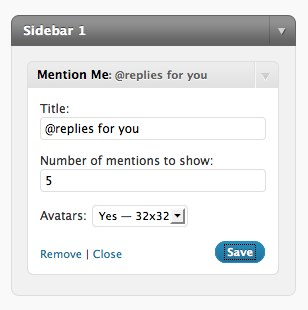
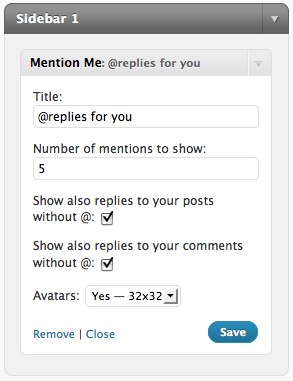
added possibility to have also non-@replies appear in the widget
git-svn-id: https://plugins.svn.wordpress.org/mention-me/trunk@168568 b8457f37-d9ea-0310-8a92-e5e31aec5664

Changed region(s): [[0.0, 0.0, 1.0, 0.9581], [0.0922, 0.4935, 0.8908, 0.929], [0.8601, 0.4065, 0.8908, 0.4645]]

diff --git a/mention-me.php b/mention-me.php
@@ -17,7 +17,6 @@ class Mention_Me extends WP_Widget {
 		
 		$this->default_num_to_show = 3;
 		$this->default_avatar_size = 32;
-		
 	}
 	
 	function flush_widget_cache() {
@@ -39,6 +38,12 @@ class Mention_Me extends WP_Widget {
 		$num_to_show = esc_attr( $instance['num_to_show'] );
 		$num_to_show_id = $this->get_field_id('num_to_show');
 		$num_to_show_name = $this->get_field_name('num_to_show');
+		$show_also_post_followups = esc_attr( $instance['show_also_post_followups'] );
+		$show_also_post_followups_id = $this->get_field_id('show_also_post_followups');
+		$show_also_post_followups_name = $this->get_field_name('show_also_post_followups');
+		$show_also_comment_followups = esc_attr( $instance['show_also_comment_followups'] );
+		$show_also_comment_followups_id = $this->get_field_id('show_also_comment_followups');
+		$show_also_comment_followups_name = $this->get_field_name('show_also_comment_followups');
 		$avatar_size = esc_attr( $instance['avatar_size'] );
 		$avatar_size_id = $this->get_field_id('avatar_size');
 		$avatar_size_name = $this->get_field_name('avatar_size');
@@ -48,19 +53,31 @@ class Mention_Me extends WP_Widget {
 		);
 ?>
 	<p>
-		<label for="<?php echo $title_id ?>"><?php _e('Title:', 'p2') ?> 
+		<label for="<?php echo $title_id ?>"><?php _e('Title:', 'mentionme') ?> 
 			<input type="text" class="widefat" id="<?php echo $title_id ?>" name="<?php echo $title_name ?>"
 				value="<?php echo $title; ?>" />
 		</label>
 	</p>
 	<p>
-		<label for="<?php echo $num_to_show_id ?>"><?php _e('Number of mentions to show:', 'p2') ?> 
+		<label for="<?php echo $num_to_show_id ?>"><?php _e('Number of mentions to show:', 'mentionme') ?> 
 			<input type="text" class="widefat" id="<?php echo $num_to_show_id ?>" name="<?php echo $num_to_show_name ?>"
 				value="<?php echo $num_to_show; ?>" />
 		</label>
 	</p>
 	<p>
-		<label for="<?php echo $avatar_size_id ?>"><?php _e('Avatars:', 'p2') ?> 
+		<label for="<?php echo $show_also_post_followups_id ?>"><?php _e('Show also replies to your posts without @:', 'mentionme') ?> 
+			<input type="checkbox" value=1 id="<?php echo $show_also_post_followups_id ?>" name="<?php echo $show_also_post_followups_name ?>"
+				<?php if( $show_also_post_followups ): echo 'checked="checked"'; endif; ?> />
+		</label>
+	</p>
+	<p>
+		<label for="<?php echo $show_also_comment_followups_id ?>"><?php _e('Show also replies to your comments without @:', 'mentionme') ?> 
+			<input type="checkbox" value=1 id="<?php echo $show_also_comment_followups_id ?>" name="<?php echo $show_also_comment_followups_name ?>"
+				<?php if( $show_also_comment_followups ): echo 'checked="checked"'; endif; ?> />
+		</label>
+	</p>
+	<p>
+		<label for="<?php echo $avatar_size_id ?>"><?php _e('Avatars:', 'mentionme') ?> 
 			<select name="<?php echo $avatar_size_name ?>" id="<?php echo $avatar_size_id ?>">
 			<?php foreach($sizes as $value => $label): ?>
 				<option value="<?php echo $value ?>" <?php selected($value, $avatar_size); ?>><?php echo $label; ?></option>
@@ -75,6 +92,8 @@ class Mention_Me extends WP_Widget {
 	function update( $new_instance, $old_instance ) {
 		$new_instance['num_to_show'] = (int)$new_instance['num_to_show']? (int)$new_instance['num_to_show'] : $this->default_num_to_show;
 		$new_instance['avatar_size'] = (int)$new_instance['avatar_size']? (int)$new_instance['avatar_size'] : $this->default_avatar_size;
+		$new_instance['show_also_post_followups'] = $new_instance['show_also_post_followups'] ? true : false;
+		$new_instance['show_also_comment_followups'] = $new_instance['show_also_comment_followups'] ? true : false;
 		return $new_instance;
 	}
 	
@@ -87,11 +106,13 @@ class Mention_Me extends WP_Widget {
 		
 		$title = (isset( $instance['title'] ) && $instance['title'])? $instance['title'] : __('Recent mentions', 'p2');
 		$num_to_show = (isset( $instance['num_to_show'] ) && (int)$instance['num_to_show'])? (int)$instance['num_to_show'] : $this->default_num_to_show;
+		$show_also_comment_followups = ( isset( $instance['show_also_comment_followups'] ) && $instance['show_also_comment_followups'] ) ? true : false;
+		$show_also_post_followups = ( isset( $instance['show_also_post_followups'] ) && $instance['show_also_post_followups'] ) ? true : false;
 		$avatar_size = (isset( $instance['avatar_size'] ) && (int)$instance['avatar_size'])? (int)$instance['avatar_size'] : $this->default_avatar_size;
 		
 		$no_avatar = $avatar_size == '-1';
 		
-		$mentions = $this->recent_mentions( $num_to_show );
+		$mentions = $this->recent_mentions( $num_to_show, $show_also_post_followups, $show_also_comment_followups );
 		
 		echo $before_widget . $before_title . wp_specialchars( $title ) . $after_title;
 ?>
@@ -164,7 +185,7 @@ class Mention_Me extends WP_Widget {
 		return $name_map;
 	}
 	
-	function recent_mentions( $num_to_show ) {
+	function recent_mentions( $num_to_show, $show_also_post_followups=false, $show_also_comment_followups=false ) {
 		global $wpdb, $current_user;
 
 		//$cache = wp_cache_get( 'p2_recent_mentions_' . $current_user->ID, 'widget' );
@@ -183,6 +204,18 @@ class Mention_Me extends WP_Widget {
 				$post_mapping[] = "post_content LIKE '%$map%'";
 			}
 		}
+		
+		if ( $show_also_comment_followups ) {
+			$comment_replies = (array) $wpdb->get_results("SELECT comment_id as ID, comment_post_id as post_id, user_id as user_id, comment_author as author, comment_author_url as author_url, comment_author_email as author_email, comment_content as content, comment_date_gmt as gmt_date FROM $wpdb->comments WHERE comment_approved = '1' AND comment_parent IN ( SELECT comment_id FROM $wpdb->comments WHERE comment_approved = '1' AND user_id = {$current_user->ID} ) ORDER BY comment_date_gmt DESC");
+		} else {
+			$comment_replies = array();
+		}
+		if ( $show_also_post_followups ) {
+			$post_replies = (array) $wpdb->get_results("SELECT comment_id as ID, comment_post_id as post_id, user_id as user_id, comment_author as author, comment_author_url as author_url, comment_author_email as author_email, comment_content as content, comment_date_gmt as gmt_date FROM $wpdb->comments WHERE  comment_approved = '1' AND comment_parent = 0 AND comment_post_id IN ( SELECT ID FROM $wpdb->posts WHERE post_status = 'publish' AND post_author = {$current_user->ID} ) ORDER BY comment_date_gmt DESC");
+		} else {
+			$post_replies = array();
+		}
+			
 		if ( !empty( $comment_mapping ) ) {
 			$where_add = ' AND (' . join( " OR ", $comment_mapping ) . ') ';
 			$mentions_comments = (array) $wpdb->get_results("SELECT comment_id as ID, comment_post_id as post_id, user_id as user_id, comment_author as author, comment_author_url as author_url, comment_author_email as author_email, comment_content as content, comment_date_gmt as gmt_date FROM $wpdb->comments WHERE comment_approved = '1' $where_add ORDER BY comment_date_gmt DESC");
@@ -192,12 +225,12 @@ class Mention_Me extends WP_Widget {
 		
 		if ( !empty( $post_mapping ) ) {
 			$where_add = ' AND (' . join( " OR ", $post_mapping ) . ') ';
-			$mentions_posts = (array) $wpdb->get_results("SELECT ID as ID, ID as post_id, post_author as user_id, post_author as author, NULL as author_url, NULL as author_email, post_content as content, post_date_gmt as gmt_date FROM $wpdb->posts WHERE post_status = 'publish' $where_add ORDER BY post_date_gmt DESC");
+			$mentions_posts = (array) $wpdb->get_results("SELECT ID as ID, ID as post_id, post_author as user_id, post_author as author, NULL as author_url, NULL as author_email, post_content as content, post_date_gmt as gmt_date FROM $wpdb->posts as p1 WHERE post_status = 'publish' $where_add ORDER BY post_date_gmt DESC");
 		} else {
 			$mentions_posts = array();
 		}
 		
-		$mentions = array_merge( $mentions_comments, $mentions_posts );
+		$mentions = array_merge( $comment_replies, $post_replies, $mentions_comments, $mentions_posts );
 		
 		$sort=array();
 		foreach( $mentions as $data ) {
